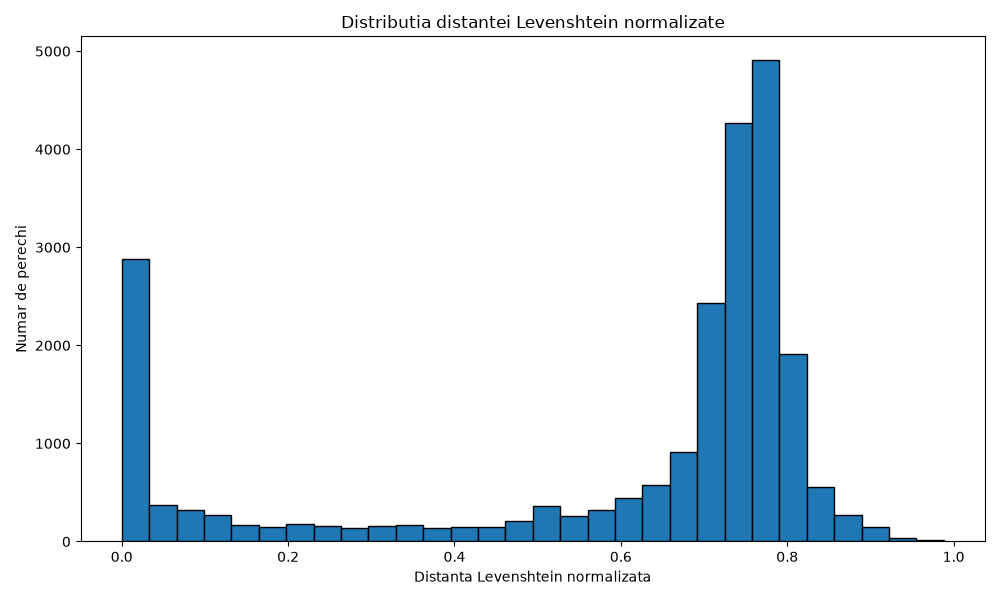
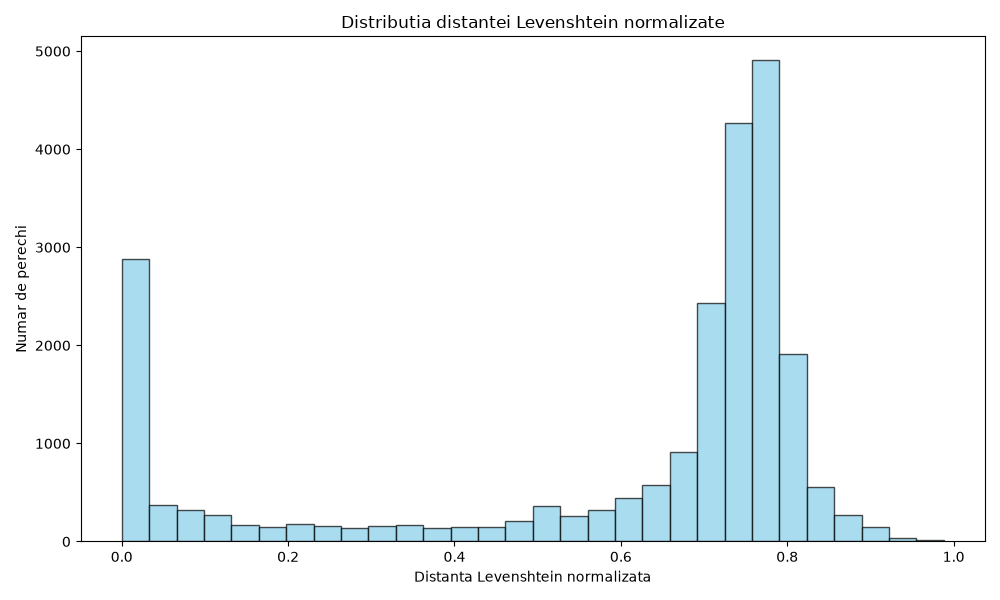
Final data cleaning

Changed region(s): [[0.124, 0.09, 0.899, 0.9]]

diff --git a/length_analysis.py b/length_analysis.py
@@ -1,22 +1,136 @@
 import json
 import os
+import re
 import nltk
 from nltk.tokenize import sent_tokenize
+from langdetect import detect, DetectorFactory
+import matplotlib.pyplot as plt
+import pandas as pd
+
+DetectorFactory.seed = 0
+
+nltk.download("punkt")
+nltk.download("punkt_tab")
+
+def empty_text(text):
+    if text is None:
+        return True
+
+    text = text.strip()
+
+    if text == "":
+        return True
+
+    return False
+
+
+def detect_language(text):
+    try:
+        return detect(text)
+    except:
+        return "unknown"
+
+
+def get_text(content, title):
+    if empty_text(content):
+        return title
+
+    return content
+
+def count_sentences(text, language):
+    if text is None:
+        return 0
+
+    text = text.strip()
+
+    if text == "":
+        return 0
+
+    nltk_languages = {
+        "cs": "czech",
+        "da": "danish",
+        "de": "german",
+        "el": "greek",
+        "en": "english",
+        "es": "spanish",
+        "et": "estonian",
+        "fi": "finnish",
+        "fr": "french",
+        "it": "italian",
+        "nl": "dutch",
+        "no": "norwegian",
+        "pl": "polish",
+        "pt": "portuguese",
+        "ru": "russian",
+        "sl": "slovene",
+        "sv": "swedish",
+        "tr": "turkish"
+    }
+
+    if language in nltk_languages:
+        try:
+            sentences = sent_tokenize(text, language=nltk_languages[language])
+            sentence_count = 0
+
+            for sentence in sentences:
+                if sentence.strip() != "":
+                    sentence_count = sentence_count + 1
+
+            return sentence_count
+
+        except:
+            pass
+
+    sentences = re.split(r"(?<=[.!?])\s+", text)
+
+    sentence_count = 0
+
+    for sentence in sentences:
+        if sentence.strip() != "":
+            sentence_count = sentence_count + 1
+
+    return sentence_count
+
+def calculate_percentage(count, total):
+    if total == 0:
+        return 0
+
+    return round(count / total * 100, 2)
+
+def calculate_statistics(series):
+    statistics = series.describe().round(4).to_dict()
+    statistics["count"] = int(statistics["count"])
+
+    return statistics
 
 data = []
 with open("ai_classification_cleaned.jsonl", "r", encoding="utf-8") as file:
     for line in file:
         data.append(json.loads(line))
 
+os.makedirs("length_correlation", exist_ok=True)
+os.makedirs("length_correlation/json", exist_ok=True)
+os.makedirs("length_correlation/reports", exist_ok=True)
+os.makedirs("length_correlation/graphical_representation", exist_ok=True)
+
 for elem in data:
-    content1 = elem["content1"]
-    content2 = elem["content2"]
+    content1 = get_text(elem["content1"], elem["title1"])
+    content2 = get_text(elem["content2"], elem["title2"])
+
+    language1 = detect_language(content1)
+    language2 = detect_language(content2)
+
     length1 = len(content1)
     length2 = len(content2)
+
+    average_length = (length1 + length2) / 2
+
+    maximum_length = max(length1, length2)
+    minimum_length = min(length1, length2)
+
     elem["length1"] = length1
     elem["length2"] = length2
     
-    maximum_length = max(length1, length2)
     length_difference = abs(length1 - length2)
     if maximum_length == 0:
         relative_length_difference = 0
@@ -32,7 +146,6 @@ for elem in data:
     elem["relative_length_difference"] = relative_length_difference
     elem["same_length"] = same_length
 
-os.makedirs("length_correlation", exist_ok=True)
 with open("length_correlation/ai_classification_with_length.jsonl", "w", encoding="utf-8") as file:
     for elem in data:
         file.write(json.dumps(elem, ensure_ascii=False) + "\n")

diff --git a/clean_data.py b/clean_data.py
@@ -196,50 +196,37 @@ for article_id in articles:
     content = articles[article_id]["content"]
     region = articles[article_id]["region"]
 
-    content_is_empty = empty_text(content)
-    content_is_corrupted = corrupted_text(content)
-    content_is_code = code_text(content)
-    content_is_video = video_text(content)
+    # daca nu exista continut, folosesc titlul
+    if empty_text(content):
+        text = title
+    else:
+        text = content
 
-    title_is_valid = valid_text(title)
-
-    content_language = detect_language(content)
-    title_language = detect_language(title)
+    text_is_corrupted = corrupted_text(text)
+    language = detect_language(text)
 
     invalid_article = False
     invalid_reason = ""
 
-    # continut corupt -> elimin indiferent de titlu
-    if content_is_corrupted:
+    # elimin articolele cu peste 10% caractere corupte
+    if text_is_corrupted:
         invalid_article = True
         invalid_reason = "corrupted_content"
 
-    # continut format din cod JavaScript / reclama
-    elif content_is_code:
+    # elimin articolele pentru care limba nu poate fi detectata
+    elif language == "unknown":
         invalid_article = True
-        invalid_reason = "code_content"
-
-    # continut format doar dintr-un link catre un videoclip
-    elif content_is_video:
-        invalid_article = True
-        invalid_reason = "video_only_content"
-
-    # continut gol si titlu invalid
-    elif content_is_empty and title_is_valid == False:
-        invalid_article = True
-        invalid_reason = "empty_content_and_invalid_title"
+        invalid_reason = "unknown_language"
 
     if invalid_article:
         invalid_article_ids.add(article_id)
 
-    if (invalid_article or content_language == "unknown" or title_language == "unknown" or content_language == "bn" or title_language == "bn"):
         suspicious_articles.append({
             "id": article_id,
             "region": region,
-            "will_be_removed": invalid_article,
+            "will_be_removed": True,
             "invalid_reason": invalid_reason,
-            "title_language": title_language,
-            "content_language": content_language,
+            "language": language,
             "title_length": len(title) if title is not None else 0,
             "content_length": len(content) if content is not None else 0,
             "title": title,
@@ -332,7 +319,7 @@ for article_id in cleaned_articles:
     if region == "HU" and language == "id":
         language = "hu"
 
-    if language == "unknown" or language == "bn":
+    if language == "unknown":
         continue
 
     if region not in languages_by_region:

diff --git a/news_analysis.py b/news_analysis.py
@@ -211,7 +211,7 @@ os.makedirs("similarity/reports", exist_ok=True)
 os.makedirs("similarity/graphical_representation/value_distributions", exist_ok=True)
 os.makedirs("similarity/graphical_representation/different_language", exist_ok=True)
 os.makedirs("similarity/json/value_distributions", exist_ok=True)
-os.makedirs("similarity/reports/value_distributions", exist_ok=True)
+# os.makedirs("similarity/reports/value_distributions", exist_ok=True)
 
 with open("similarity/reports/similarity_summary.txt", "w", encoding="utf-8") as file:
     file.write("Pairs classified as Yes: " + str(len(similar_news)) + "\n")
@@ -465,7 +465,9 @@ plt.figure(figsize=(10, 6))
 plt.hist(
     normalized_edit_distances,
     bins=30,
-    edgecolor="black"
+    color="skyblue",
+    edgecolor="black",
+    alpha=0.7
 )
 
 plt.title("Distributia distantei Levenshtein normalizate")
@@ -794,10 +796,7 @@ with open("similarity/json/value_distributions/value_distribution_statistics.jso
 
 plt.figure(figsize=(8, 6))
 
-plt.boxplot(
-    multilingual_similarities,
-    vert=True
-)
+plt.boxplot(multilingual_similarities, orientation="vertical")
 
 plt.title("Boxplot pentru similaritatea stirilor in limbi diferite")
 plt.ylabel("Cosine similarity")

diff --git a/README.md b/README.md
@@ -220,3 +220,9 @@ Evaluating extreme similarity instances exposes critical edge cases and systemic
 *   **Cosine Score:** $-0.1083$ | **Temporal Delta:** $\approx 101.70\text{ days}$
 *   **Linguistic Mapping:** French (`fr`) vs. Romanian (`ro`).
 *   **Diagnostic Inspection:** While both documents share a baseline semantic entity (e.g., "Donald Trump/Harvard University"), severe format discrepancies led to an artificial drop in vector alignment. Document $d_1$ was an compressed, abstract summary, while document $d_2$ suffered from uncleaned HTML boilerplate, styling elements, and WordPress metadata injections. This demonstrates that document-level pooling remains highly sensitive to uncleaned structural noise.
+
+---
+
+detectăm limba articolului cu langdetect, folosim tokenizerul NLTK corespunzător atunci când limba este suportată, iar pentru celelalte limbi folosim fallback cu regex.
+
+Asta este mai corect metodologic decât să aplicăm tokenizerul implicit de engleză tuturor limbilor.
